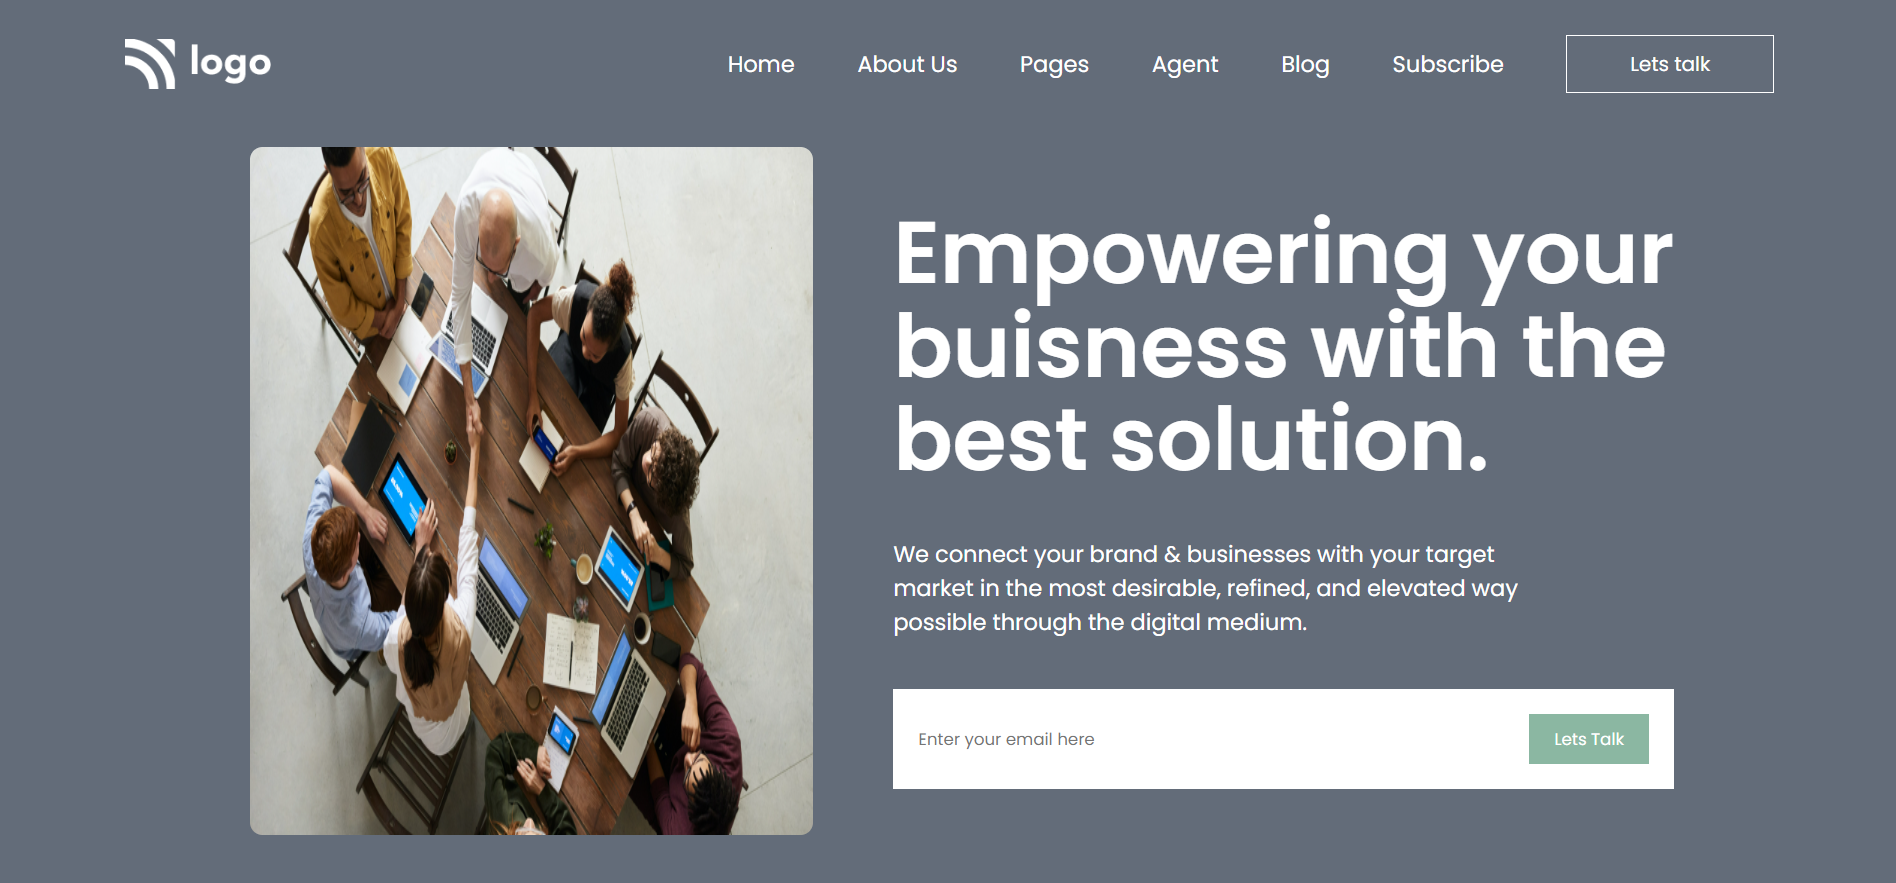
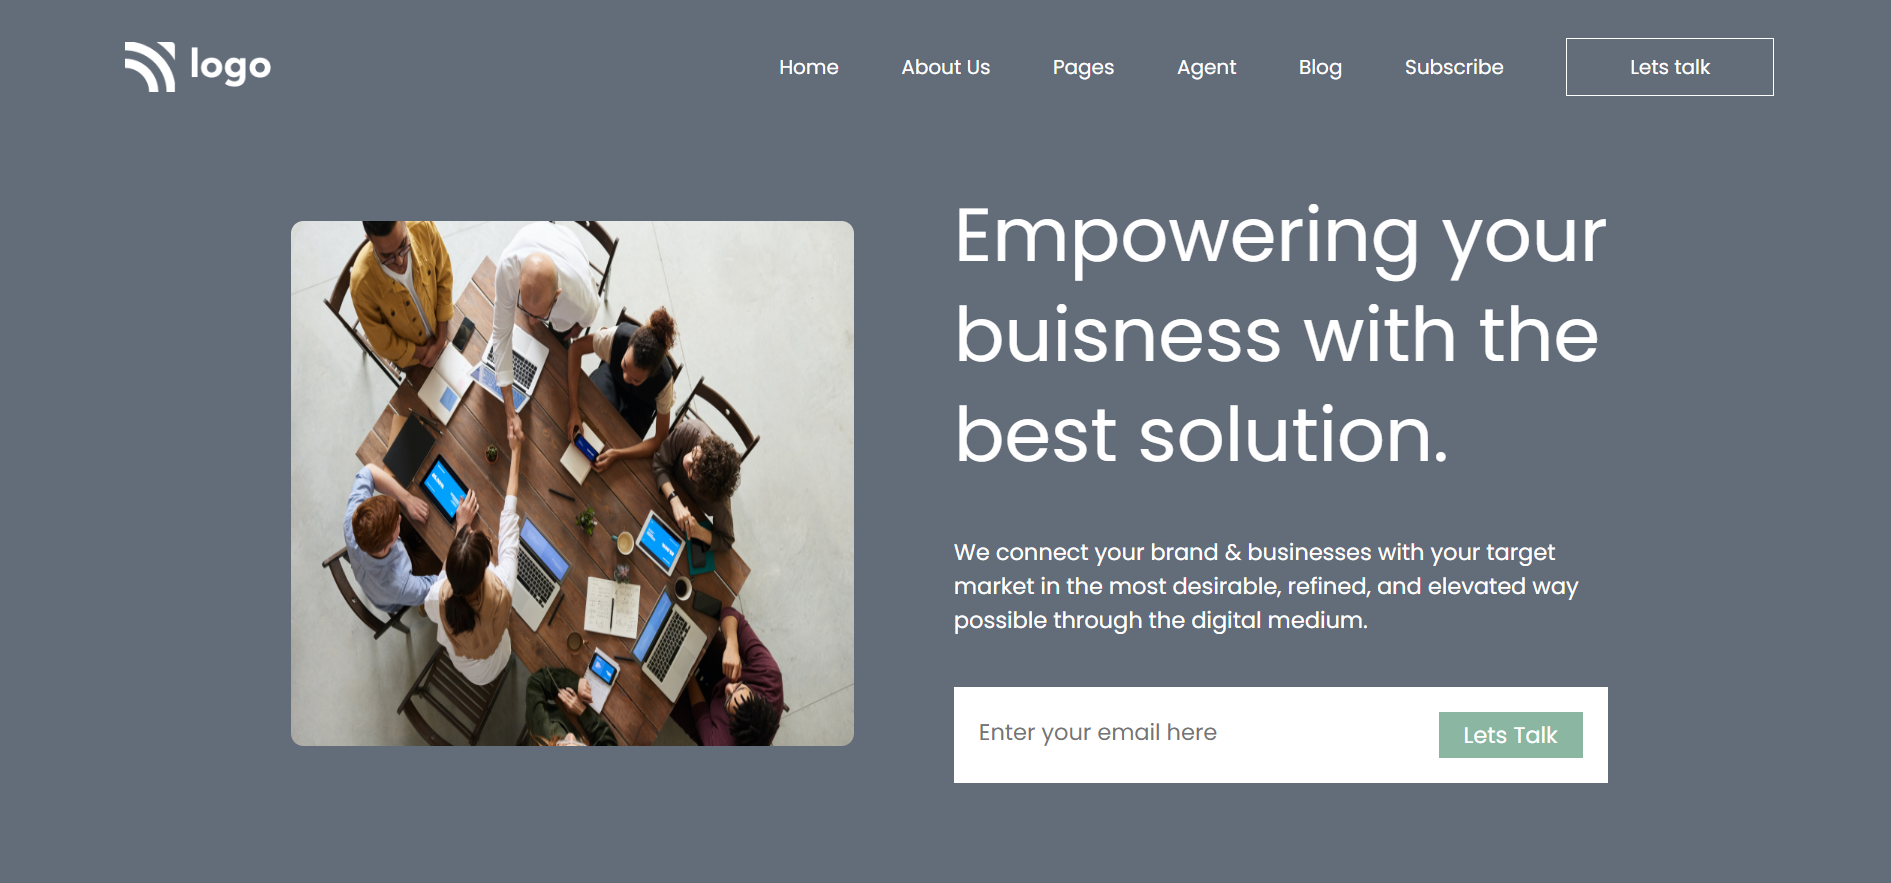
UI updated

diff --git a/css/style.css b/css/style.css
@@ -39,7 +39,7 @@
 
 .item{
     list-style-type: none;
-    font-size: 18px;
+    font-size: 16px;
     text-transform: capitalize;
 }
 
@@ -49,18 +49,22 @@
     color: #fff;
     background-color: transparent;
     font-size: 16px;
+    cursor: pointer;
 }
 
 .section{
-    margin-top: 60px;
+    height: 500px;
+    padding: 0 150px;
+    display: flex;
+    justify-content: center;
+    align-items: center;
+    gap: 80px;
+    margin-top: 30px ;
 }
 
 .section > img{
-    height: 550px;
+    height: 420px;
     width: 450px;
-    position: absolute;
-    top: 120px;
-    left: 200px;
     border-radius: 10px;
 }
 
@@ -68,15 +72,12 @@
     display: flex;
     flex-direction: column;
     gap: 40px;
-    position: absolute;
-    right: 180px;
 }
 
 .right-section > h1{
-    font-size: 70px;
+    font-size: 60px;
     color: #fff;
-    line-height: 75px;
-    font-weight: 600;
+    line-height: 80px;
 }
 
 .right-section > p{
@@ -92,11 +93,17 @@
 }
 
 .input-container > input{
+    width: 70%;
     border: none;
 }
 
+.input-container > input::placeholder{
+    font-size: 18px;
+}
+
 .input-container > button{
-    padding: 10px 20px;
+    font-size: 18px;
+    padding: 5px 20px;
     text-transform: capitalize;
     color: #fff;
     background-color: #8bb7a2;
@@ -145,14 +152,13 @@
 .section-five{
     display: flex;
     justify-content: space-evenly;
-    margin: 50px 0;
+    margin: 70px 0;
 }
 
 .section-five > .left{
     display: flex;
     flex-direction: column;
-    gap: 30px;
-    margin-top: 100px;
+    justify-content: space-evenly;
 }
 
 .section-five > .left > h1{
